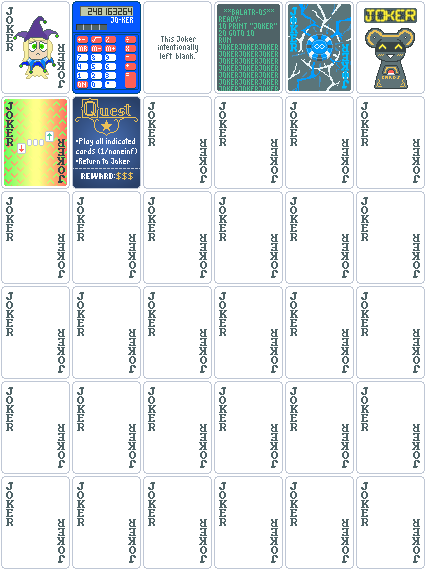
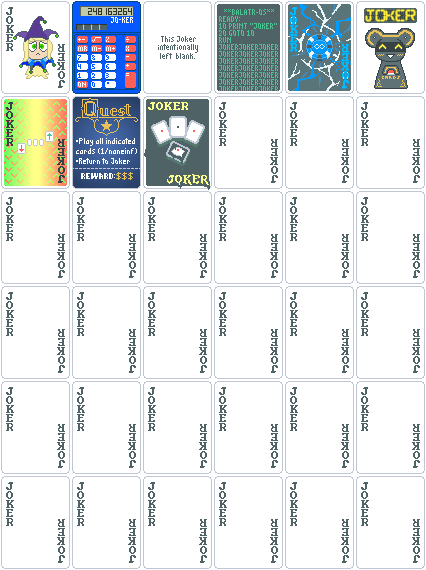
the interloper
i have no clue what some of the image changes are. the difference mode clearly shows *some* kind of change but i don't know how it came to be

Changed region(s): [[0.3357, 0.1491, 0.5188, 0.3281]]

diff --git a/README.md b/README.md
@@ -7,6 +7,6 @@ A mod with little in the way of theming. Not explicitly balanced, but not too un
 
 -----
 Contains:
-- 20 Jokers
+- 21 Jokers
 - 1 Deck
 - 1 Challenge
